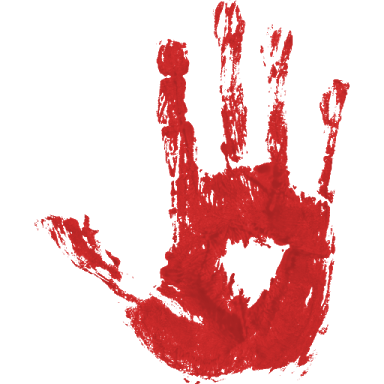
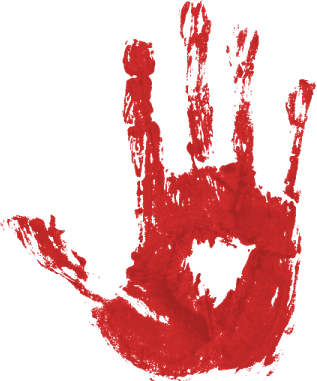
implement dead effect

Changed region(s): [[0.0, 0.0, 1.0, 1.0]]

diff --git a/src/effects/DeadEffect.java b/src/effects/DeadEffect.java
@@ -19,8 +19,10 @@ import util.Global;
 public class DeadEffect implements Effect {
 
     private String imagePath;
-    private int x;
-    private int y;
+    private int x1;
+    private int y1;
+    private int x2;
+    private int y2;
     private int width;
     private int height;
     private boolean run;
@@ -28,19 +30,19 @@ public class DeadEffect implements Effect {
     private Renderer handRenderer;
     private Renderer bloodRenderer;
     private Delay delay;
+    private int dragDistance;
 
-    public DeadEffect(int x, int y, int width, int height, Actor actor) {
-        this.x = x;
-        this.y = y;
+    public DeadEffect(int width, int height, Actor actor) {
         this.width = width;
         this.height = height;
         this.run = false;
         this.actor = actor;
         this.handRenderer = new Renderer();
         this.bloodRenderer = new Renderer();
-        this.delay = new Delay(30);
+        this.dragDistance = 0;
+        this.delay = new Delay(1);
     }
-    
+
     @Override
     public boolean getRun() {
         return this.run;
@@ -48,9 +50,7 @@ public class DeadEffect implements Effect {
 
     @Override
     public void update() {
-        if (this.actor.getHp() <= 0f) {
-            this.x = (int) Global.viewX;
-            this.y = (int) Global.viewY;
+        if (this.actor.getHp() <= 100f) {
             this.run = true;
         } else {
             this.run = false;
@@ -64,11 +64,30 @@ public class DeadEffect implements Effect {
 
     @Override
     public void paint(Graphics g) {
+        // 播放聲音 : 死亡音效
         this.handRenderer.setImage(ImagePath.BLOOD[2]);
-        this.handRenderer.paint(g, this.x, this.y, this.x + this.width, this.y + this.height);
-        this.delay.start();
         this.bloodRenderer.setImage(ImagePath.BLOOD[3]);
-        this.bloodRenderer.paint(g, this.x, this.y, this.x + this.width, this.y + this.height);
+        this.delay.start();
+        if (this.delay.isTrig() && this.width < 500) {
+            this.x1 = (int) this.actor.getX() - this.width / 2;
+            this.y1 = (int) this.actor.getY() - this.height / 2;
+            this.x2 = (int) this.actor.getX() + this.width / 2;
+            this.y2 = (int) this.actor.getY() + this.height / 2;
+            this.width += 60;
+            this.height += 50;
+        } // 手掌從小變大
+        if (this.width >= 500 && this.dragDistance < 600) {
+            this.x1 = (int) this.actor.getX() - this.width / 2;
+            this.y1 = (int) this.actor.getY() - this.height / 2 + this.dragDistance;
+            this.x2 = (int) this.actor.getX() + this.width / 2;
+            this.y2 = (int) this.actor.getY() + this.height / 2 + this.dragDistance;
+            this.dragDistance = this.dragDistance + 4;
+        } // 手掌往下拖
+        if (this.width >= 500) {
+            this.bloodRenderer.paint(g, this.x1, (int) this.actor.getY() - this.height / 2, 
+                    this.x2, (int) this.actor.getY() + this.dragDistance, 
+                    0, 0, 287, this.dragDistance);
+        } // 血跡
+        this.handRenderer.paint(g, this.x1, this.y1, this.x2, this.y2);
     }
-
 }

diff --git a/src/renderer/Renderer.java b/src/renderer/Renderer.java
@@ -108,7 +108,7 @@ public class Renderer {
         gameX2 = gameX2 - (int) Global.viewX;
         gameY2 = gameY2 - (int) Global.viewY;
         g.drawImage(img, gameX1, gameY1, gameX2, gameY2,
-                0, 0, this.img.getWidth(), this.img.getHeight(), null); 
+                0, 0, this.img.getWidth(), this.img.getHeight(), null);
     }
     
     public void paint(Graphics g, int gameX1, int gameY1, int gameX2, int gameY2, int imgX1, int imgY1, int imgX2, int imgY2) {

diff --git a/src/gameobj/Actor.java b/src/gameobj/Actor.java
@@ -61,7 +61,7 @@ public class Actor extends GameObject {
         setType("Actor");
         this.effects = new LinkedList();
         this.effects.add(new LowHpEffect((int) this.x, (int) this.y, Global.SCREEN_X, Global.SCREEN_Y, this));
-        this.effects.add(new DeadEffect((int) this.x, (int) this.y , Global.SCREEN_X, Global.SCREEN_Y, this));
+        this.effects.add(new DeadEffect(200, 200, this));
     }//多載 建構子 當前版本
 
     //位置資訊
